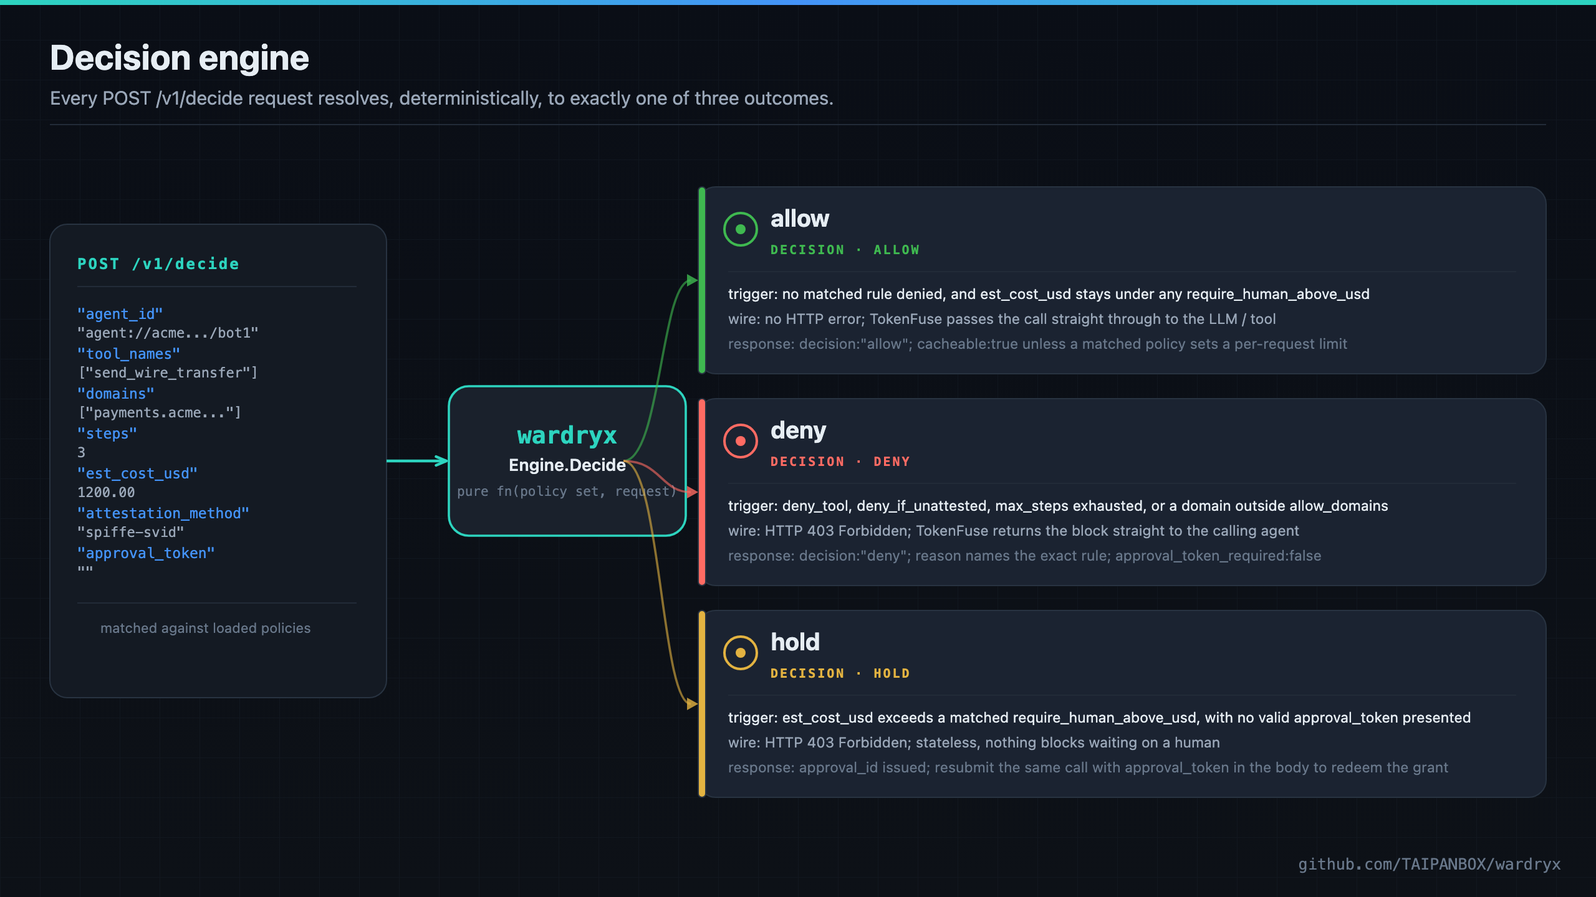
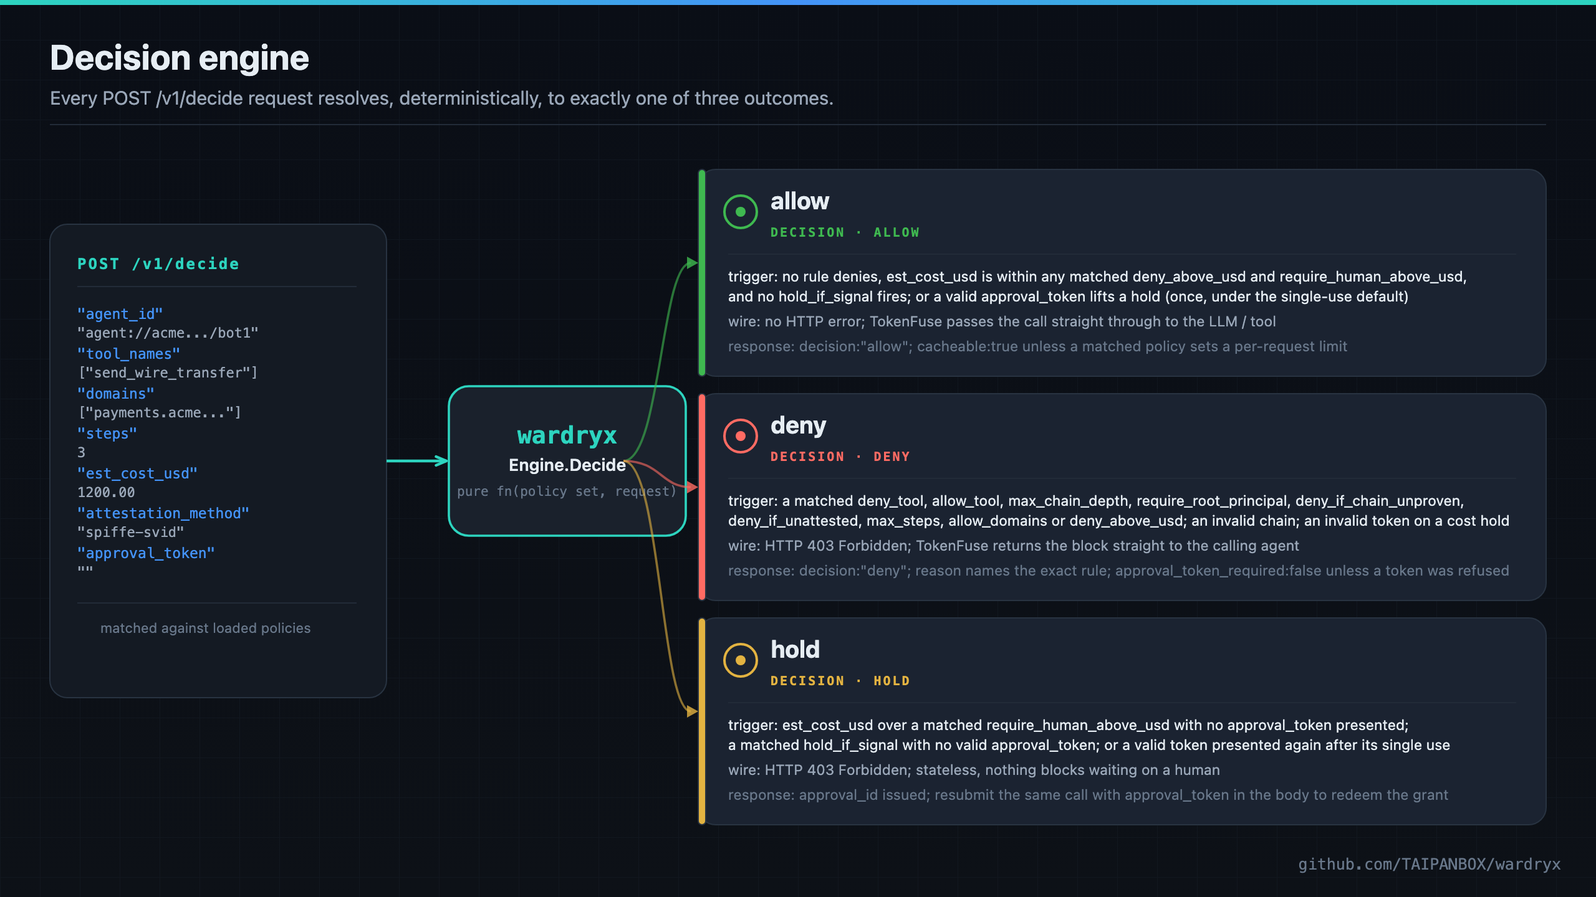
docs: the diagrams and comments say what the code does about decisions and single-use (#96)
docs/decisions.svg: each card's trigger is now true and complete. The deny
card lists allow_tool, the three chain rules, deny_above_usd, an invalid
chain and an invalid token on a cost hold; its response says
approval_token_required is true for a refused token. The allow card names
deny_above_usd, hold_if_signal and a valid token lifting a hold; the hold
card names hold_if_signal and a token presented again after its single use.
The cards grow from 150 to 166px so a two-line trigger keeps the row rhythm.
The README decision table says the same.

docs/architecture.svg: the step 1, 3 and 5 captions are shortened so each
has 18 to 21px of slack in its card (step 5 overflowed by 3.8px).

docs/modes.svg: the approval-token line said tokens are reusable for the
full TTL by default and that WARDRYX_APPROVAL_SINGLE_USE=true makes each
redeem once, false since #53. It now says single-use is the default and
=false makes a token reusable. The fail-open and fail-closed cards' last
lines sat 2.9px from the card edge; the rows and the caption below them now
have 9px or more.

Invariant 24's check now reads every <text> of docs/*.svg and assets/*.svg
as it reads README prose, red first on the unfixed modes.svg, with two
diagram fault cases and one non-fault in its teeth.

internal/api: the comment above the single-use block in handleDecide said
single-use is off by default and that overThreshold is the only path to an
[…]

Changed region(s): [[0.4062, 0.4375, 0.9688, 0.9375], [0.4062, 0.1875, 0.9688, 0.4062], [0.4062, 0.5312, 0.4375, 0.5625]]

diff --git a/cmd/wardryx/readme_prose_defaults_test.go b/cmd/wardryx/readme_prose_defaults_test.go
@@ -35,11 +35,17 @@ import (
 // The environment table's own rows are skipped: they are the other test's
 // subject. Everything else in the README is read, code blocks included,
 // since a command line that sets a variable to its default makes the same
-// false claim.
+// false claim. So is the text of every <text> element of docs/*.svg and
+// assets/*.svg, the diagrams the README shows: until 2026-10-13
+// docs/modes.svg still said tokens are "reusable for the full TTL by default"
+// and that WARDRYX_APPROVAL_SINGLE_USE=true makes each redeem once, a month
+// after the default flipped (#53) and eleven days after #78 fixed the
+// README's own sentences, because nothing read it.
 //
 // What this does not read: a default restated in words that name no variable
 // ("tokens are reusable by default") and paraphrase in general. Those are
-// left to review; the shapes above are the ones that drifted.
+// left to review; the shapes above are the ones that drifted. Nor the PNG
+// renders of the diagrams, which are made from the SVGs and are not text.
 
 var (
 	setToRE   = regexp.MustCompile("(WARDRYX_[A-Z0-9_]+)=(\"[^\"]*\"|'[^']*'|[^\\s`|),;]*)")
@@ -107,14 +113,15 @@ func proseLines(t *testing.T, path string) map[int]string {
 	return out
 }
 
-// checkReadmeProseDefaults returns every prose claim in the README at path
-// that contradicts the code's defaults, and how many claims of the three
-// shapes it found, so a run that read none can refuse.
-func checkReadmeProseDefaults(t *testing.T, path string) (problems []string, examined int) {
+// checkReadmeProseDefaults returns every prose claim in the README at readme,
+// or in a <text> of one of the diagrams at svgs, that contradicts the code's
+// defaults, and how many claims of the three shapes it found, so a run that
+// read none can refuse.
+func checkReadmeProseDefaults(t *testing.T, readme string, svgs []string) (problems []string, examined int) {
 	t.Helper()
 	read := namesTheCodeReads(t)
 	defaults := unsetAndDerive(t, read)
-	lines := proseLines(t, path)
+	lines := proseLines(t, readme)
 
 	numbers := make([]int, 0, len(lines))
 	for n := range lines {
@@ -123,10 +130,22 @@ func checkReadmeProseDefaults(t *testing.T, path string) (problems []string, exa
 	sort.Ints(numbers)
 
 	mentions := 0
+	var units []headerUnit
 	for _, n := range numbers {
-		line := lines[n]
-		at := func(msg string) { problems = append(problems, "README.md:"+strconv.Itoa(n)+": "+msg) }
-		mentions += len(mentionRE.FindAllString(line, -1))
+		mentions += len(mentionRE.FindAllString(lines[n], -1))
+		units = append(units, headerUnit{"README.md:" + strconv.Itoa(n), lines[n]})
+	}
+	if mentions == 0 {
+		t.Fatalf("%s names no WARDRYX_* variable outside the environment table: "+
+			"this test measured nothing, which is not the same as passing", readme)
+	}
+	for _, svg := range svgs {
+		units = append(units, svgUnits(t, svg)...)
+	}
+
+	for _, u := range units {
+		line := u.text
+		at := func(msg string) { problems = append(problems, u.where+": "+msg) }
 
 		for _, m := range setToRE.FindAllStringSubmatch(line, -1) {
 			def, known := defaults[m[1]]
@@ -175,15 +194,11 @@ func checkReadmeProseDefaults(t *testing.T, path string) (problems []string, exa
 			}
 		}
 	}
-	if mentions == 0 {
-		t.Fatalf("%s names no WARDRYX_* variable outside the environment table: "+
-			"this test measured nothing, which is not the same as passing", path)
-	}
 	return problems, examined
 }
 
 func TestReadmeProseNeverContradictsTheCodeDefaults(t *testing.T) {
-	problems, examined := checkReadmeProseDefaults(t, readmePath)
+	problems, examined := checkReadmeProseDefaults(t, readmePath, diagramPaths(t))
 	if examined == 0 {
 		t.Fatal("no prose claim of any of the three shapes was found in the README: " +
 			"this test measured nothing, which is not the same as passing")
@@ -193,10 +208,11 @@ func TestReadmeProseNeverContradictsTheCodeDefaults(t *testing.T) {
 	}
 }
 
-// Teeth: each case plants, into a copy of the real README, one sentence the
-// README actually carried before #78, or a close variant of a shape, and
-// requires a problem naming the variable. The unchanged copy and a planted
-// sentence that is true must produce none.
+// Teeth: each case plants, into a copy of the real README or of a real
+// diagram, one sentence the README or the diagram actually carried before it
+// was fixed, or a close variant of a shape, and requires a problem naming the
+// variable. The unchanged copies and a planted sentence that is true must
+// produce none.
 func TestReadmeProseCheckCatchesPlantedFaults(t *testing.T) {
 	orig, err := os.ReadFile(readmePath)
 	if err != nil {
@@ -206,40 +222,60 @@ func TestReadmeProseCheckCatchesPlantedFaults(t *testing.T) {
 	if strings.Count(string(orig), anchor) != 1 {
 		t.Fatalf("plant anchor %q is not exactly once in the README; the plants would measure nothing", anchor)
 	}
+	const svgName = "../../docs/modes.svg"
+	origSVG, err := os.ReadFile(svgName)
+	if err != nil {
+		t.Fatalf("reading %s: %v", svgName, err)
+	}
+	const svgAnchor = "</svg>"
+	if strings.Count(string(origSVG), svgAnchor) != 1 {
+		t.Fatalf("plant anchor %q is not exactly once in %s; the plants would measure nothing", svgAnchor, svgName)
+	}
 	cases := []struct {
-		name, plant, want string
+		name, plant, svgPlant, want string
 	}{
-		{"unchanged copy", "", ""},
-		{"a true sentence is not a fault",
-			"Set `WARDRYX_APPROVAL_SINGLE_USE=false` to reuse a token (`WARDRYX_APPROVAL_UNANSWERED_AFTER`, default 15m).\n\n",
-			""},
-		{"pre-#78: the old default as an opt-in",
-			"Approval tokens are reusable for the full TTL by default (10 minutes), or set `WARDRYX_APPROVAL_SINGLE_USE=true` so each granted token redeems exactly once.\n\n",
-			"WARDRYX_APPROVAL_SINGLE_USE=true sets the variable to its own default"},
-		{"pre-#78: the caveat tied to an explicit true",
-			"- `WARDRYX_APPROVAL_SINGLE_USE=true` with no `-db`/`WARDRYX_DB` only enforces single-use within that one process.\n\n",
-			"WARDRYX_APPROVAL_SINGLE_USE=true sets the variable to its own default"},
-		{"pre-#78: on by default, called optional",
-			"- [x] Stateless human-in-the-loop: HMAC-signed approval tokens, configurable TTL, optional single-use redemption (`WARDRYX_APPROVAL_SINGLE_USE`)\n\n",
-			`WARDRYX_APPROVAL_SINGLE_USE is on by default, and a sentence naming it calls it "optional"`},
-		{"a stated default the code does not use",
-			"The sweep (`WARDRYX_APPROVAL_UNANSWERED_AFTER`, default 10m) reports and never decides.\n\n",
-			`WARDRYX_APPROVAL_UNANSWERED_AFTER: prose says the default is "10m", the code uses "15m0s"`},
-		{"a stated default with its unit in words",
-			"Once a hold is older than `WARDRYX_APPROVAL_UNANSWERED_AFTER` (a Go duration, default 10 minutes), it is reported.\n\n",
-			`WARDRYX_APPROVAL_UNANSWERED_AFTER: prose says the default is "10m", the code uses "15m0s"`},
-		{"a stated bool default in backticks",
-			"`WARDRYX_APPROVAL_SINGLE_USE` defaults to `false`.\n\n",
-			`WARDRYX_APPROVAL_SINGLE_USE: prose says the default is "false", the code uses "true"`},
+		{name: "unchanged copies"},
+		{name: "pre-2026-10-13: the modes diagram's approval-token line",
+			svgPlant: `<text x="185" y="674" font-size="11.5">reusable for the full TTL by default (10 min); WARDRYX_APPROVAL_SINGLE_USE=true makes each granted token redeem exactly once</text>`,
+			want:     "modes.svg: WARDRYX_APPROVAL_SINGLE_USE=true sets the variable to its own default"},
+		{name: "a diagram text that calls an on-by-default switch optional",
+			svgPlant: `<text x="185" y="674">optional single-use redemption (WARDRYX_APPROVAL_SINGLE_USE)</text>`,
+			want:     `modes.svg: WARDRYX_APPROVAL_SINGLE_USE is on by default, and a sentence naming it calls it "optional"`},
+		{name: "a true diagram text is not a fault",
+			svgPlant: `<text x="185" y="674">single-use by default; WARDRYX_APPROVAL_SINGLE_USE=false makes a token reusable for its full TTL</text>`},
+		{name: "a true sentence is not a fault",
+			plant: "Set `WARDRYX_APPROVAL_SINGLE_USE=false` to reuse a token (`WARDRYX_APPROVAL_UNANSWERED_AFTER`, default 15m).\n\n"},
+		{name: "pre-#78: the old default as an opt-in",
+			plant: "Approval tokens are reusable for the full TTL by default (10 minutes), or set `WARDRYX_APPROVAL_SINGLE_USE=true` so each granted token redeems exactly once.\n\n",
+			want:  "WARDRYX_APPROVAL_SINGLE_USE=true sets the variable to its own default"},
+		{name: "pre-#78: the caveat tied to an explicit true",
+			plant: "- `WARDRYX_APPROVAL_SINGLE_USE=true` with no `-db`/`WARDRYX_DB` only enforces single-use within that one process.\n\n",
+			want:  "WARDRYX_APPROVAL_SINGLE_USE=true sets the variable to its own default"},
+		{name: "pre-#78: on by default, called optional",
+			plant: "- [x] Stateless human-in-the-loop: HMAC-signed approval tokens, configurable TTL, optional single-use redemption (`WARDRYX_APPROVAL_SINGLE_USE`)\n\n",
+			want:  `WARDRYX_APPROVAL_SINGLE_USE is on by default, and a sentence naming it calls it "optional"`},
+		{name: "a stated default the code does not use",
+			plant: "The sweep (`WARDRYX_APPROVAL_UNANSWERED_AFTER`, default 10m) reports and never decides.\n\n",
+			want:  `WARDRYX_APPROVAL_UNANSWERED_AFTER: prose says the default is "10m", the code uses "15m0s"`},
+		{name: "a stated default with its unit in words",
+			plant: "Once a hold is older than `WARDRYX_APPROVAL_UNANSWERED_AFTER` (a Go duration, default 10 minutes), it is reported.\n\n",
+			want:  `WARDRYX_APPROVAL_UNANSWERED_AFTER: prose says the default is "10m", the code uses "15m0s"`},
+		{name: "a stated bool default in backticks",
+			plant: "`WARDRYX_APPROVAL_SINGLE_USE` defaults to `false`.\n\n",
+			want:  `WARDRYX_APPROVAL_SINGLE_USE: prose says the default is "false", the code uses "true"`},
 	}
 	for _, c := range cases {
 		t.Run(c.name, func(t *testing.T) {
-			src := strings.Replace(string(orig), anchor, c.plant+anchor, 1)
-			path := filepath.Join(t.TempDir(), "README.md")
-			if err := os.WriteFile(path, []byte(src), 0o600); err != nil {
+			dir := t.TempDir()
+			path := filepath.Join(dir, "README.md")
+			if err := os.WriteFile(path, []byte(strings.Replace(string(orig), anchor, c.plant+anchor, 1)), 0o600); err != nil {
 				t.Fatal(err)
 			}
-			got, _ := checkReadmeProseDefaults(t, path)
+			svg := filepath.Join(dir, "modes.svg")
+			if err := os.WriteFile(svg, []byte(strings.Replace(string(origSVG), svgAnchor, c.svgPlant+svgAnchor, 1)), 0o600); err != nil {
+				t.Fatal(err)
+			}
+			got, _ := checkReadmeProseDefaults(t, path, []string{svg})
 			if c.want == "" {
 				if len(got) != 0 {
 					t.Fatalf("no fault planted, got problems: %q", got)

diff --git a/internal/api/api.go b/internal/api/api.go
@@ -616,13 +616,15 @@ func (s *Server) handleDecide(w http.ResponseWriter, r *http.Request, principal 
 
 	// WARDRYX_APPROVAL_SINGLE_USE: an Allow with ApprovalTokenRequired set
 	// only ever happens when a presented approval_token just verified (see
-	// pdp.Engine.Decide's overThreshold branch -- that is the only path
-	// that sets ApprovalTokenRequired and can still reach Allow). Off by
-	// default, so this block never runs and the decision is returned
-	// unchanged, exactly as before single-use mode existed: a valid token
-	// stays reusable for its full TTL.
+	// pdp.Engine.Decide's overThreshold and heldBySignal branches -- the
+	// only paths that set ApprovalTokenRequired and can still reach Allow).
+	// On by default since 1.0 (invariant 5; internal/config's
+	// parseBoolClosed reads unset or unparsable as true), so this block runs
+	// unless an operator set the variable to an explicit false, which
+	// restores the pre-1.0 behaviour: the decision is returned unchanged and
+	// a valid token stays reusable for its full TTL.
 	//
-	// When enabled, TryRedeem is the atomic check-and-set that lets a
+	// When it runs, TryRedeem is the atomic check-and-set that lets a
 	// token allow at most once: the first /v1/decide to claim this token's
 	// RedemptionKey wins Allow, and any later presentation of that same
 	// token -- a genuine retry or a race against it -- loses the claim and

diff --git a/internal/api/api_test.go b/internal/api/api_test.go
@@ -27,8 +27,9 @@ const (
 	testHMAC  = "test-approval-secret"
 )
 
-// newTestServer returns a Server with WARDRYX_APPROVAL_SINGLE_USE off (the
-// default): a granted approval_token stays reusable for its full TTL.
+// newTestServer returns a Server with WARDRYX_APPROVAL_SINGLE_USE set to an
+// explicit false, which is not the default (single-use is, since 1.0): a
+// granted approval_token stays reusable for its full TTL.
 func newTestServer(t *testing.T) *Server {
 	t.Helper()
 	return newTestServerOpts(t, false, nil)
@@ -236,11 +237,10 @@ func TestFullHoldGrantThenDecideAllowsWithToken(t *testing.T) {
 	}
 }
 
-// TestSingleUseOffTokenStaysReusableForFullTTL locks in today's default
-// behavior (WARDRYX_APPROVAL_SINGLE_USE unset/false, via newTestServer):
-// a granted approval_token allows *every* /v1/decide call presenting it
-// within its TTL, not just the first. This must keep passing unchanged
-// after WARDRYX_APPROVAL_SINGLE_USE is introduced.
+// TestSingleUseOffTokenStaysReusableForFullTTL locks in the behaviour of
+// WARDRYX_APPROVAL_SINGLE_USE=false (via newTestServer), the pre-1.0 default
+// and since 1.0 an explicit opt-out: a granted approval_token allows *every*
+// /v1/decide call presenting it within its TTL, not just the first.
 func TestSingleUseOffTokenStaysReusableForFullTTL(t *testing.T) {
 	srv := newTestServer(t)
 

diff --git a/README.md b/README.md
@@ -150,9 +150,9 @@ Two rollback limits. A policy file that uses `allow_tool` is refused at start by
 
 | Decision | Trigger | Wire behavior | Response |
 |---|---|---|---|
-| `allow` | no matched rule denied, `est_cost_usd` stays under any matched `require_human_above_usd` and `deny_above_usd` | no HTTP error; the enforcement point forwards the call | `decision:"allow"`; `cacheable:true` unless a matched policy sets `max_steps`, `allow_domains`, `allow_tool`, `require_human_above_usd`, `deny_above_usd`, `hold_if_signal`, or any of the three chain rules, or the request carries a `tool_call` and a matched policy sets `deny_tool` |
-| `deny` | `deny_tool` matched by the tool list or the tool call's name, a tool outside a matched `allow_tool`, a chain over `max_chain_depth`, a root outside `require_root_principal`, `deny_if_chain_unproven` on an unverified chain, `deny_if_unattested` with no live attestation, `max_steps` exhausted, a domain outside `allow_domains`, or `est_cost_usd` over a matched `deny_above_usd` hard ceiling | HTTP 403 Forbidden from the enforcement point back to the agent | `decision:"deny"`; `reason` names the exact rule; `approval_token_required:false` |
-| `hold` | `est_cost_usd` exceeds a matched `require_human_above_usd`, or a signal satisfies a matched `hold_if_signal`, with no valid `approval_token` presented | HTTP 403 Forbidden; stateless, nothing blocks waiting on a human | `approval_id` issued; to redeem the grant, resubmit the same call with the token in the `approval_token` field of the `/v1/decide` body (behind TokenFuse an agent sends it in the `x-fuse-approval-token` header, and TokenFuse forwards it in that field) |
+| `allow` | no rule denied, `est_cost_usd` is at or under any matched `deny_above_usd` and `require_human_above_usd`, and no matched `hold_if_signal` fired; or a valid `approval_token` lifted a hold (once, under the single-use default) | no HTTP error; the enforcement point forwards the call | `decision:"allow"`; `cacheable:true` unless a matched policy sets `max_steps`, `allow_domains`, `allow_tool`, `require_human_above_usd`, `deny_above_usd`, `hold_if_signal`, or any of the three chain rules, or the request carries a `tool_call` and a matched policy sets `deny_tool` |
+| `deny` | an invalid `on_behalf_of` delegation chain (whatever the policy), `deny_tool` matched by the tool list or the tool call's name, a tool outside a matched `allow_tool`, a chain over `max_chain_depth`, a root outside `require_root_principal`, `deny_if_chain_unproven` on an unverified chain, `deny_if_unattested` with no live attestation, `max_steps` exhausted, a domain outside `allow_domains`, `est_cost_usd` over a matched `deny_above_usd` hard ceiling, or an invalid `approval_token` presented for a cost over a matched `require_human_above_usd` | HTTP 403 Forbidden from the enforcement point back to the agent | `decision:"deny"`; `reason` names the exact rule; `approval_token_required:false`, except `true` for a refused token |
+| `hold` | `est_cost_usd` exceeds a matched `require_human_above_usd` with no `approval_token` presented, or a signal satisfies a matched `hold_if_signal` with no valid one; or a valid token is presented again after its single use | HTTP 403 Forbidden; stateless, nothing blocks waiting on a human | `approval_id` issued; to redeem the grant, resubmit the same call with the token in the `approval_token` field of the `/v1/decide` body (behind TokenFuse an agent sends it in the `x-fuse-approval-token` header, and TokenFuse forwards it in that field) |
 
 ### The /v1/decide contract
 
@@ -192,7 +192,7 @@ Response (a hold, in this example, because `send_wire_transfer`'s cost is above 
 }
 ```
 
-`decision` is always one of `allow`, `deny`, or `hold`. `approval_id` is only set on a hold. `approval_token_required` is true whenever the estimated cost crossed a threshold at all, whether or not a token ultimately satisfied it. A denied `max_steps` or `allow_domains` check reports its own `reason` (e.g. `"policy \"finance-guardrail\" step budget exhausted: 5 >= max_steps 5"` or `"domain \"evil.example.com\" is not allowed by policy \"finance-guardrail\" (target agent://acme.example/finance/*)"`) with `decision: "deny"` and `approval_token_required: false`, since a deny from an earlier rule short-circuits before the cost threshold is ever reached.
+`decision` is always one of `allow`, `deny`, or `hold`. `approval_id` is only set on a hold. `approval_token_required` is true whenever the estimated cost crossed a threshold at all, or a matched `hold_if_signal` fired, whether or not a token ultimately satisfied it. A denied `max_steps` or `allow_domains` check reports its own `reason` (e.g. `"policy \"finance-guardrail\" step budget exhausted: 5 >= max_steps 5"` or `"domain \"evil.example.com\" is not allowed by policy \"finance-guardrail\" (target agent://acme.example/finance/*)"`) with `decision: "deny"` and `approval_token_required: false`, since a deny from an earlier rule short-circuits before the cost threshold is ever reached.
 
 `cacheable` tells the caller whether this decision may be stored and later served again, by whatever cache the caller keeps in front of `/v1/decide`, for another request against the same `agent_id` and tool set, without calling `/v1/decide` again. It is `true` only when no policy matched by `agent_id` sets `max_steps`, `allow_domains`, `allow_tool`, `require_human_above_usd`, or `deny_above_usd` (the fields Decide checks against this request's own `steps`, `domains`, and `est_cost_usd`, and the name of its tool call, any of which can differ on the very next call even for the same agent and the same tools), or when no policy matched at all (a `hold_if_signal` rule also makes a decision uncacheable, since a signal belongs to one call's arguments and not to the agent and tool set). A request that carries a `tool_call` is likewise uncacheable under a matched `deny_tool`, because the deny-list reads the call's name, which is outside the agent and tool set. A request with no `tool_call` under a `deny_tool` is still cacheable, so a cache keyed on agent and tool set alone can serve that allow to a later call whose tool call names a denied tool: a caller must key on whether a tool call is present. It is `false` whenever a matched policy sets any of those five, regardless of which rule actually produced this decision: Wardryx is the source of truth for whether a decision generalizes beyond the one request that produced it, not the caller. `cacheable` is independent of `decision` itself, a cacheable decision can be `allow`, `deny`, or `hold` alike, though a caller's own cache should still never store a `hold` regardless of `cacheable`, since a replayed one would hand out a stale `approval_id` for what looks like a fresh hold. TokenFuse's gateway (`crates/gateway/src/wardryx.rs`) is the reference implementation: its decision cache gates every store on `cacheable` and is keyed on `(agent_id, tool-set hash, attestation_method)`, coarser than the full request but no longer blind to attestation. That third field is load-bearing, not cosmetic: a `deny_if_unattested`-only decision is still `cacheable:true` under the rule above, since attestation is not one of the three fields that make a decision request-specific, so a cache keyed just on `(agent_id, tool-set hash)` could serve an attested agent's cached `allow` to a later, unattested request against the same agent and tool set within the TTL, silently defeating `deny_if_unattested`. TokenFuse hit exactly that gap in a concurrent multi-agent test on 2026-07-11 and closed it by folding `attestation_method` into the cache key (TokenFuse PR #110). The bug and its fix were both entirely on TokenFuse's side: Wardryx never caches anything itself, it only returns the decision and the `cacheable` hint that tells a caller's own cache what it may safely store.
 

diff --git a/CLAUDE.md b/CLAUDE.md
@@ -740,15 +740,26 @@ decision outcome and every exported signature identical.
     ("15 minutes" reads as `15m`); and a switch that is on by default called
     "optional" or "opt-in" in a sentence naming it. Code blocks are read
     too, the environment table's rows are not.
+
+    The diagrams the README shows are read the same way, one `<text>` of
+    `docs/*.svg` or `assets/*.svg` at a time. Until 2026-10-13
+    `docs/modes.svg` still said approval tokens are reusable for the full TTL
+    by default and that `WARDRYX_APPROVAL_SINGLE_USE=true` makes each redeem
+    once: written true on 2026-07-10, false since #53 flipped the default on
+    2026-09-13, and left behind by #78, which fixed the README's own
+    sentences, because the check read only the README.
     *(test: `TestReadmeProseNeverContradictsTheCodeDefaults`, red first on
     the real pre-#78 README, where it names all four drifted sentences, and
     on a flipped `parseBoolClosed` and a changed `api.DefaultUnansweredAfter`
-    with the README unchanged; its teeth are
-    `TestReadmeProseCheckCatchesPlantedFaults`, six planted faults, three of
-    them verbatim pre-#78 sentences, and two non-faults, itself red when
-    `sameSetting` is neutered. Its limits: a default restated in words that
-    name no variable ("tokens are reusable by default") and paraphrase in
-    general are not read; those stay with review.)*
+    with the README unchanged, and red first on the unfixed `modes.svg`; its
+    teeth are `TestReadmeProseCheckCatchesPlantedFaults`, eight planted
+    faults, four of them verbatim pre-fix sentences (three from the README,
+    one from `modes.svg`), and three non-faults, itself red when
+    `sameSetting` is neutered and, on both diagram faults, when the diagrams
+    are not read. Its limits: a default restated in words that name no
+    variable ("tokens are reusable by default") and paraphrase in general are
+    not read; those stay with review. The PNG renders are not read either, so
+    a PNG regenerated from a stale SVG passes.)*
 
 25. **A typed risk signal can add a hold and nothing else.** `@decided
     2026-10-04`: a signal may turn a call into a hold and never into a deny, and
